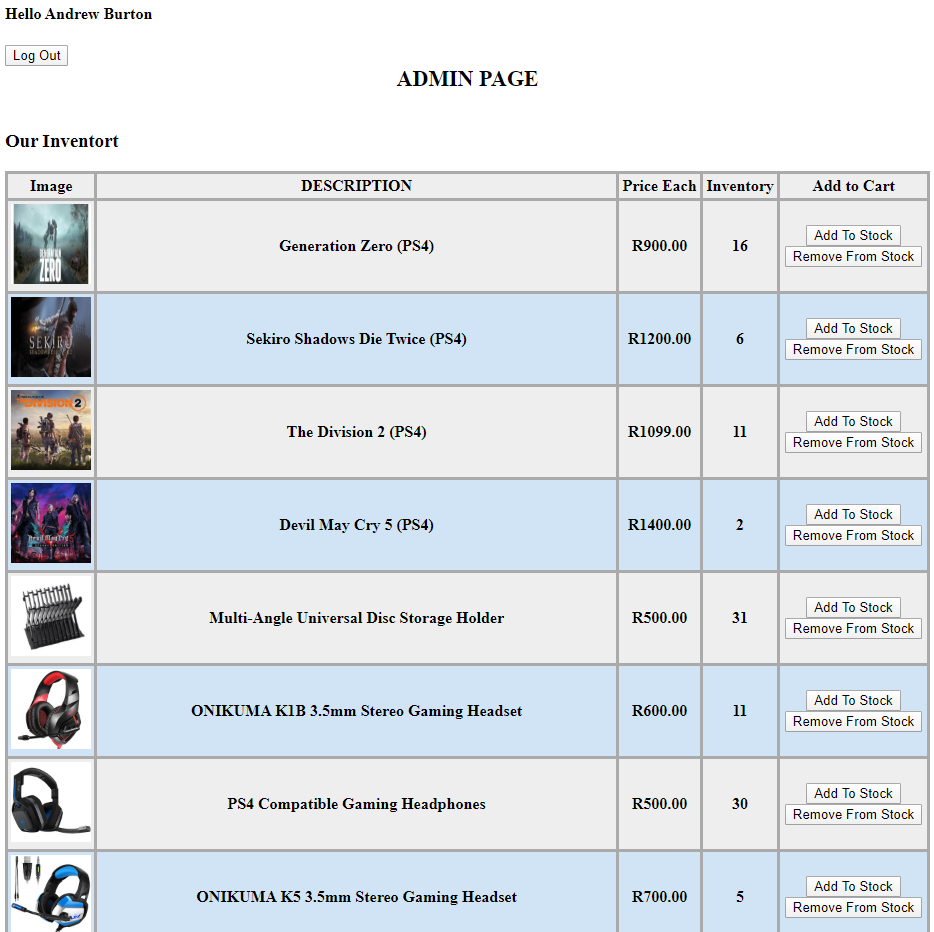
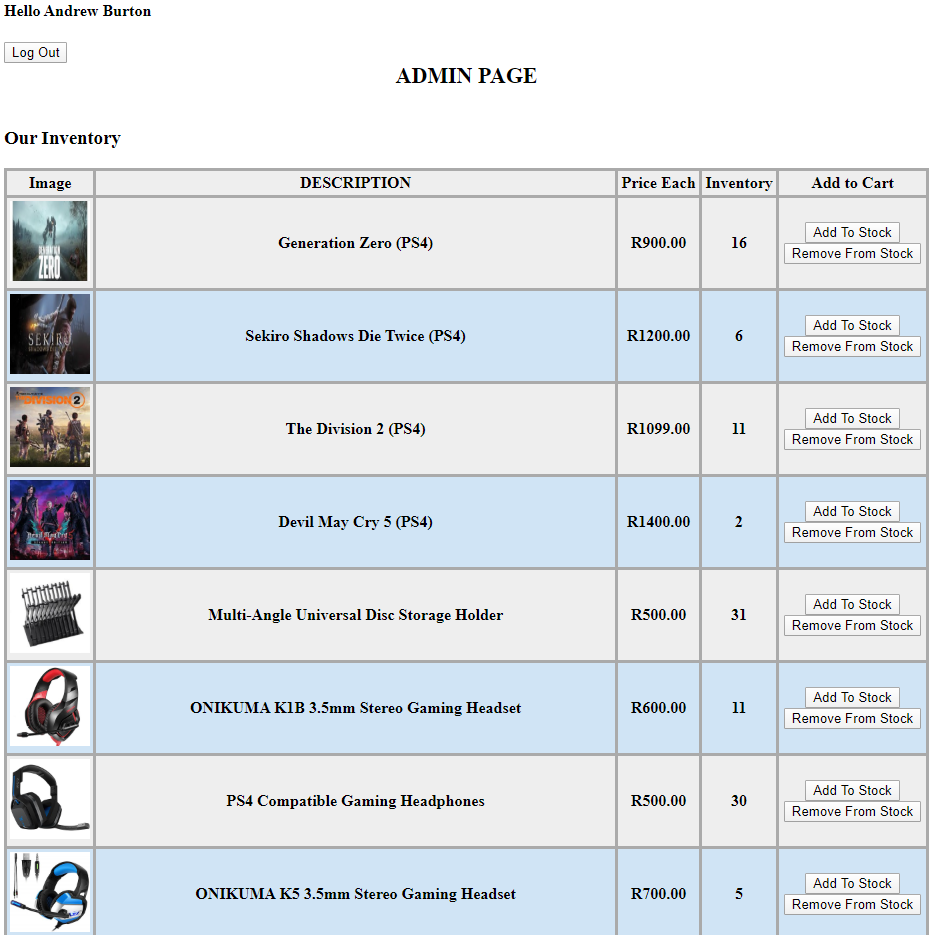
Corrected a typo

Changed region(s): [[0.0, 0.1245, 1.0, 1.0], [0.0, 0.0, 0.1552, 0.0933], [0.4036, 0.0622, 0.5899, 0.0933]]

diff --git a/Admin.php b/Admin.php
@@ -99,7 +99,7 @@ echo "<th>Add to Cart</th>" ;
 echo  "</tr>";
 echo "<form method=post>";
 //-----------------------------------------------------------------------------
-echo"<h3>Our Inventort</h3>";
+echo"<h3>Our Inventory</h3>";
 //Populate Table
 //-----------------------------------------------------------------------------
 $shoppingCart = $Cart->getProductList(); 
